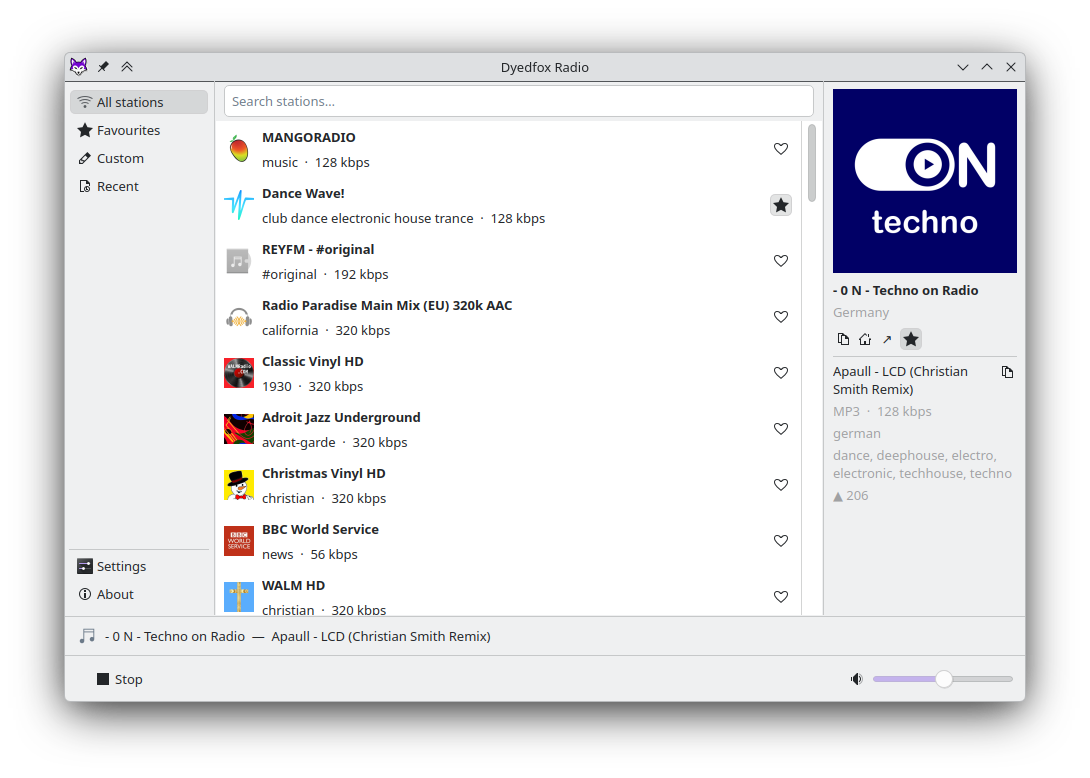
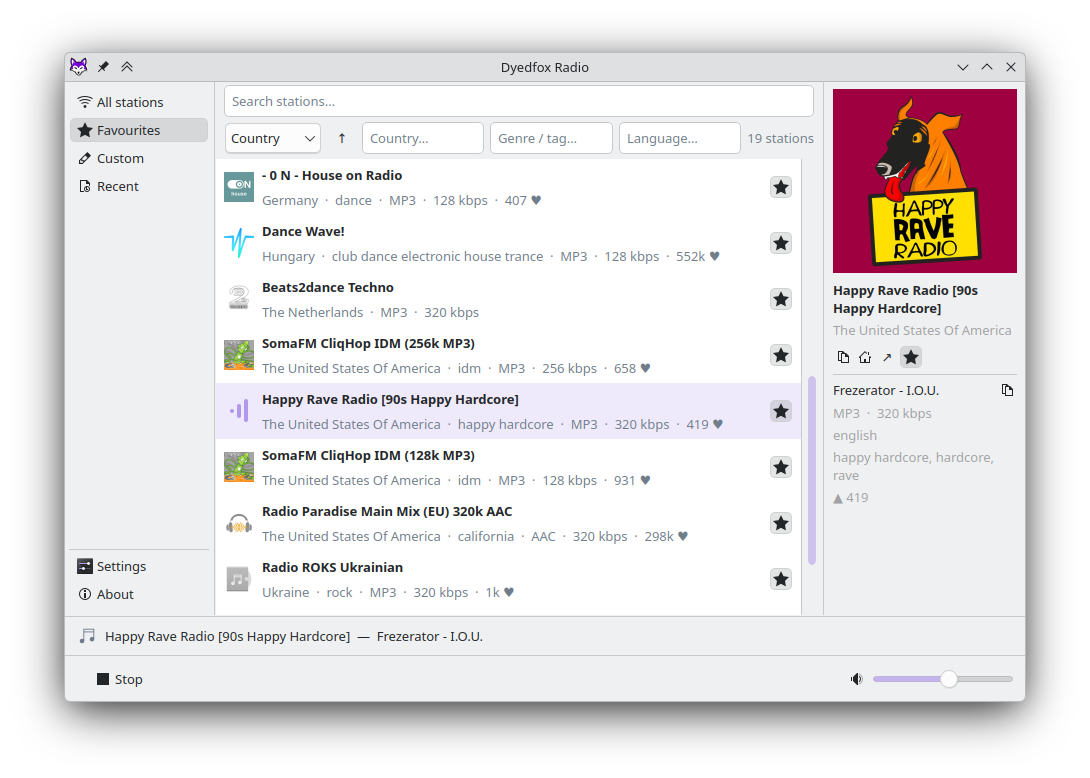
Search process improved

diff --git a/translations/dyedfox-radio_uk.ts b/translations/dyedfox-radio_uk.ts
@@ -166,27 +166,27 @@ Powered by radio-browser.info.</source>
         <translation>Параметри</translation>
     </message>
     <message>
-        <location filename="../ui/main_window.py" line="172" />
+        <location filename="../ui/main_window.py" line="173" />
         <source>About</source>
         <translation>Про застосунок</translation>
     </message>
     <message>
-        <location filename="../ui/main_window.py" line="231" />
+        <location filename="../ui/main_window.py" line="233" />
         <source>Could not load stations — check your connection</source>
         <translation>Не вдалося завантажити станції — перевірте з'єднання</translation>
     </message>
     <message>
-        <location filename="../ui/main_window.py" line="273" />
+        <location filename="../ui/main_window.py" line="275" />
         <source>Could not load favourites — check your connection</source>
         <translation>Не вдалося завантажити улюблені — перевірте з'єднання</translation>
     </message>
     <message>
-        <location filename="../ui/main_window.py" line="289" />
+        <location filename="../ui/main_window.py" line="291" />
         <source>Could not load recent — check your connection</source>
         <translation>Не вдалося завантажити нещодавні — перевірте з'єднання</translation>
     </message>
     <message>
-        <location filename="../ui/main_window.py" line="374" />
+        <location filename="../ui/main_window.py" line="376" />
         <source>Could not connect to {0}. The stream may be down or unavailable.</source>
         <translation>Не вдалося підключитися до {0}. Потік може бути недоступний.</translation>
     </message>
@@ -258,69 +258,74 @@ Powered by radio-browser.info.</source>
 </context><context>
     <name>StationListWidget</name>
     <message>
-        <location filename="../ui/station_list.py" line="288" />
+        <location filename="../ui/station_list.py" line="313" />
         <source>Search stations…</source>
         <translation>Пошук станцій…</translation>
     </message>
     <message>
-        <location filename="../ui/station_list.py" line="301" />
+        <location filename="../ui/station_list.py" line="326" />
         <source>Name</source>
         <translation>Назва</translation>
     </message>
     <message>
-        <location filename="../ui/station_list.py" line="302" />
+        <location filename="../ui/station_list.py" line="327" />
         <source>Country</source>
         <translation>Країна</translation>
     </message>
     <message>
-        <location filename="../ui/station_list.py" line="303" />
+        <location filename="../ui/station_list.py" line="328" />
         <source>Bitrate</source>
         <translation>Бітрейт</translation>
     </message>
     <message>
-        <location filename="../ui/station_list.py" line="304" />
+        <location filename="../ui/station_list.py" line="329" />
         <source>Votes</source>
         <translation>Рейтинг</translation>
     </message>
     <message>
-        <location filename="../ui/station_list.py" line="305" />
+        <location filename="../ui/station_list.py" line="330" />
         <source>Language</source>
         <translation>Мова</translation>
     </message>
     <message>
-        <location filename="../ui/station_list.py" line="306" />
+        <location filename="../ui/station_list.py" line="331" />
         <source>Codec</source>
         <translation>Кодек</translation>
     </message>
     <message>
-        <location filename="../ui/station_list.py" line="311" />
+        <location filename="../ui/station_list.py" line="336" />
         <source>Country…</source>
         <translation>Країна…</translation>
     </message>
     <message>
-        <location filename="../ui/station_list.py" line="315" />
+        <location filename="../ui/station_list.py" line="340" />
         <source>Genre / tag…</source>
         <translation>Жанр / тег…</translation>
     </message>
     <message>
-        <location filename="../ui/station_list.py" line="319" />
+        <location filename="../ui/station_list.py" line="344" />
         <source>Language…</source>
         <translation>Мова…</translation>
     </message>
     <message>
-        <location filename="../ui/station_list.py" line="326" />
+        <location filename="../ui/station_list.py" line="351" />
         <source>Toggle sort direction</source>
         <translation>Змінити напрямок сортування</translation>
     </message>
     <message>
-        <location filename="../ui/station_list.py" line="351" />
+        <location filename="../ui/station_list.py" line="385" />
         <source>This may be a temporary server-side issue.</source>
         <translation>Це може бути тимчасова проблема на боці сервера.</translation>
     </message>
     <message>
-        <location filename="../ui/station_list.py" line="357" />
+        <location filename="../ui/station_list.py" line="391" />
         <source>Retry</source>
         <translation>Повторити</translation>
+    </message>
+    <message>
+        <location filename="../ui/station_list.py" line="637" />
+        <source>{0} stations</source>
+        <translation>{0} станцій</translation>
     </message>
 </context><context>
     <name>SystemTrayIcon</name>

diff --git a/ui/station_list.py b/ui/station_list.py
@@ -12,6 +12,31 @@ from data.favourites import FavouritesManager
 from data.settings import Settings
 
 
+class _SpinnerLabel(QLabel):
+    _FRAMES = "⠋⠙⠹⠸⠼⠴⠦⠧⠇⠏"
+
+    def __init__(self, parent=None):
+        super().__init__(parent)
+        self._frame = 0
+        self._timer = QTimer(self)
+        self._timer.timeout.connect(self._step)
+        self.hide()
+
+    def start(self):
+        self._frame = 0
+        self.setText(self._FRAMES[0])
+        self.show()
+        self._timer.start(80)
+
+    def stop(self):
+        self._timer.stop()
+        self.hide()
+
+    def _step(self):
+        self._frame = (self._frame + 1) % len(self._FRAMES)
+        self.setText(self._FRAMES[self._frame])
+
+
 class _WaveWidget(QWidget):
     """Animated 3-bar equalizer shown while a station is playing."""
 
@@ -160,12 +185,7 @@ class StationRowWidget(QWidget):
         ] if p]
         meta_label = _ElidedLabel("  ·  ".join(meta_parts))
         meta_label.setAttribute(Qt.WidgetAttribute.WA_TransparentForMouseEvents)
-        p = meta_label.palette()
-        p.setColor(
-            QPalette.ColorRole.WindowText,
-            meta_label.palette().color(QPalette.ColorGroup.Disabled, QPalette.ColorRole.WindowText),
-        )
-        meta_label.setPalette(p)
+        meta_label.setStyleSheet("color: palette(placeholder-text);")
         text_layout.addWidget(meta_label)
 
         layout.addWidget(text, 1)
@@ -325,11 +345,20 @@ class StationListWidget(QWidget):
         self._sort_dir.setFixedWidth(28)
         self._sort_dir.setToolTip(self.tr("Toggle sort direction"))
 
+        self._spinner = _SpinnerLabel()
+        self._spinner.setStyleSheet("color: palette(placeholder-text);")
+
+        self._status_label = QLabel()
+        self._status_label.setAlignment(Qt.AlignmentFlag.AlignRight | Qt.AlignmentFlag.AlignVCenter)
+        self._status_label.setStyleSheet("color: palette(placeholder-text);")
+
         sort_layout.addWidget(self._sort_field)
         sort_layout.addWidget(self._sort_dir)
         sort_layout.addWidget(self._country_input, 1)
         sort_layout.addWidget(self._tag_input, 1)
         sort_layout.addWidget(self._language_input, 1)
+        sort_layout.addWidget(self._spinner)
+        sort_layout.addWidget(self._status_label)
 
         layout.addWidget(self._sort_bar)
 
@@ -549,6 +578,8 @@ class StationListWidget(QWidget):
             country = self._country_input.text().strip()
             tag = self._tag_input.text().strip()
             language = self._language_input.text().strip()
+            if name or country or tag or language:
+                self._spinner.start()
             self.search_params_changed.emit(name, country, tag, language)
 
     def _apply_filter(self):
@@ -594,6 +625,13 @@ class StationListWidget(QWidget):
                     visible = False
 
             item.setHidden(not visible)
+
+        self._spinner.stop()
+        visible_count = sum(1 for i in range(self._list.count()) if not self._list.item(i).isHidden())
+        if self._list.count() > 0:
+            self._status_label.setText(self.tr("{0} stations").format(visible_count))
+        else:
+            self._status_label.clear()
 
     def changeEvent(self, event):
         if event.type() == QEvent.Type.PaletteChange and self._playing_uuid:

diff --git a/ui/settings_dialog.py b/ui/settings_dialog.py
@@ -42,10 +42,10 @@ class SettingsDialog(QDialog):
         stations_layout.setFieldGrowthPolicy(QFormLayout.FieldGrowthPolicy.FieldsStayAtSizeHint)
 
         self._limit = QComboBox()
-        for n in [50, 100, 200]:
+        for n in [50, 100, 200, 500]:
             self._limit.addItem(self.tr("{0} stations").format(n), n)
         current = settings["station_limit"]
-        self._limit.setCurrentIndex({50: 0, 100: 1, 200: 2}.get(current, 1))
+        self._limit.setCurrentIndex({50: 0, 100: 1, 200: 2, 500: 3}.get(current, 1))
         stations_layout.addRow(self.tr("Top stations to load:"), self._limit)
 
         layout.addWidget(stations)

diff --git a/ui/main_window.py b/ui/main_window.py
@@ -163,6 +163,7 @@ class MainWindow(QMainWindow):
 
         self._settings_btn = QPushButton(self.tr("Settings"))
         self._settings_btn.setFlat(True)
+        self._settings_btn.setFocusPolicy(Qt.FocusPolicy.NoFocus)
         self._settings_btn.setIcon(QIcon.fromTheme("preferences-system"))
         self._settings_btn.setIconSize(QSize(16, 16))
         self._settings_btn.setStyleSheet("QPushButton { text-align: left; padding: 4px 8px; }")
@@ -171,6 +172,7 @@ class MainWindow(QMainWindow):
 
         self._about_btn = QPushButton(self.tr("About"))
         self._about_btn.setFlat(True)
+        self._about_btn.setFocusPolicy(Qt.FocusPolicy.NoFocus)
         self._about_btn.setIcon(QIcon.fromTheme("help-about"))
         self._about_btn.setIconSize(QSize(16, 16))
         self._about_btn.setStyleSheet("QPushButton { text-align: left; padding: 4px 8px; }")

diff --git a/README.md b/README.md
@@ -22,6 +22,7 @@ Inspired by [Shortwave](https://github.com/maunalinux/shortwave), with a native 
 
 ![Main window](screenshots/main.png)
 ![Main window - Light Theme](screenshots/main-light.png)
+![Sort and filter demo](screenshots/sort.gif)
 ![System tray](screenshots/systray.png)
 ![MPRIS2 support](screenshots/mpris2.png)
 